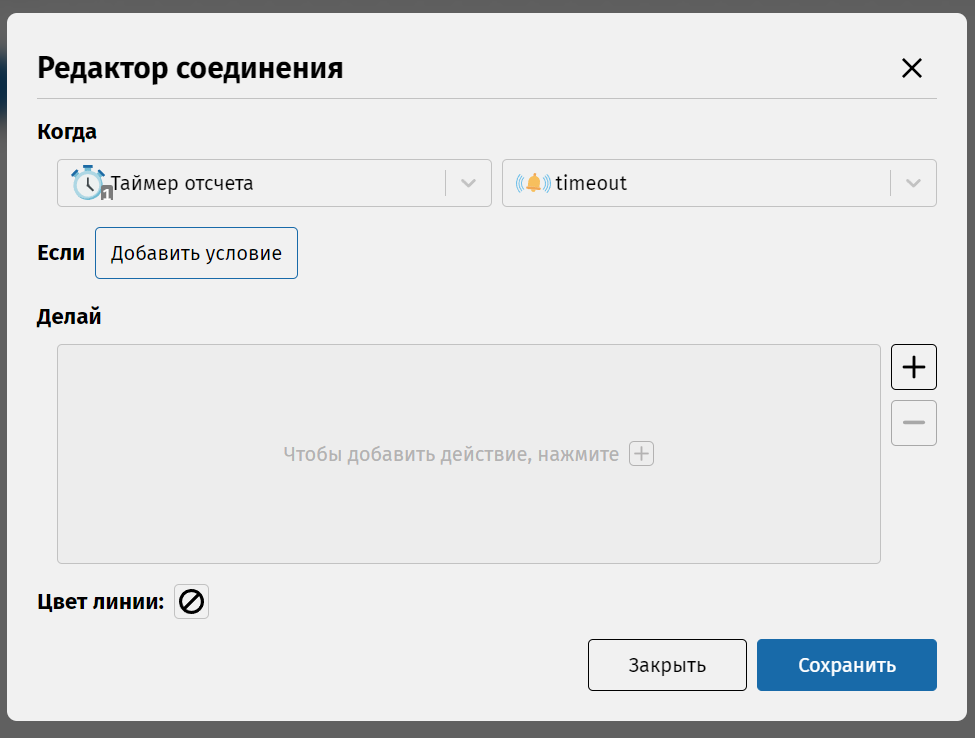
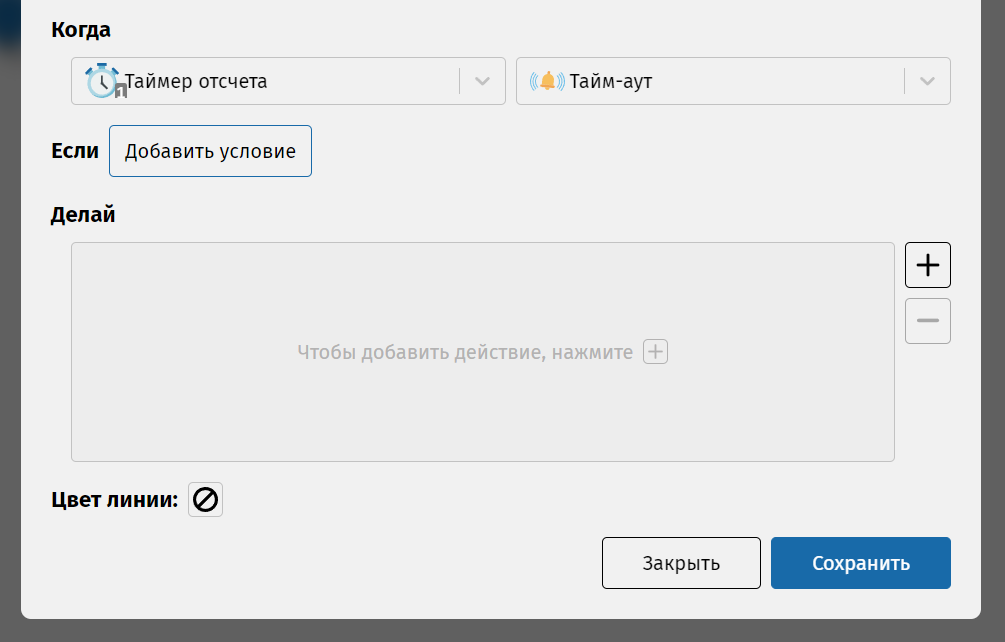
12 Добавление события

diff --git a/docs/02 Быстрый старт/12 Добавление события.html b/docs/02 Быстрый старт/12 Добавление события.html
@@ -18,18 +18,33 @@
       Выберите состояние, наведите курсор на значок плюса
       <img width="20px" src="../../img/icons/new transition.svg" /> и с зажатой
       левой кнопкой мыши потяните к другому состоянию. Появится диалоговое окно
-      для редактирования соединения. Выберите событие для срабатывания таймера
-      (это будет «Таймер отсчета→timeout»). Нажмите кнопку «Сохранить». Создайте
+      для редактирования соединения. Выберите компонент с событиями (в данном
+      случае это «Таймер») в левом списке, в правом выберите событие для
+      срабатывания таймера («Тайм-аут»). Нажмите кнопку «Сохранить». Создайте
       теперь в точности такой же переход, но уже в обратную сторону.
     </p>
+
     <a class="mt-1"
       ><img src="../../img/quick-start/trans-editor-timer.png" width="100%"
     /></a>
+
+    <details>
+      <summary><b>Кибермишка</b></summary>
+
+      <a class="mt-1"
+        ><img src="../../img/quick-start/timer-trans-blg.png" width="100%"
+      /></a>
+    </details>
+
     <br />
-    <br />
-    <a class="mt-1"
-      ><img src="../../img/quick-start/timer-trans.png" width="100%"
-    /></a>
+
+    <details>
+      <summary><b>МС-ТЮК</b></summary>
+      <a class="mt-1"
+        ><img src="../../img/quick-start/timer-trans-ms.png" width="100%"
+      /></a>
+    </details>
+
     <p class="mt-3 text-bg-success p-2">
       <em>
         Перемещать переходы на графическом поле можно, зажав левую кнопку на
